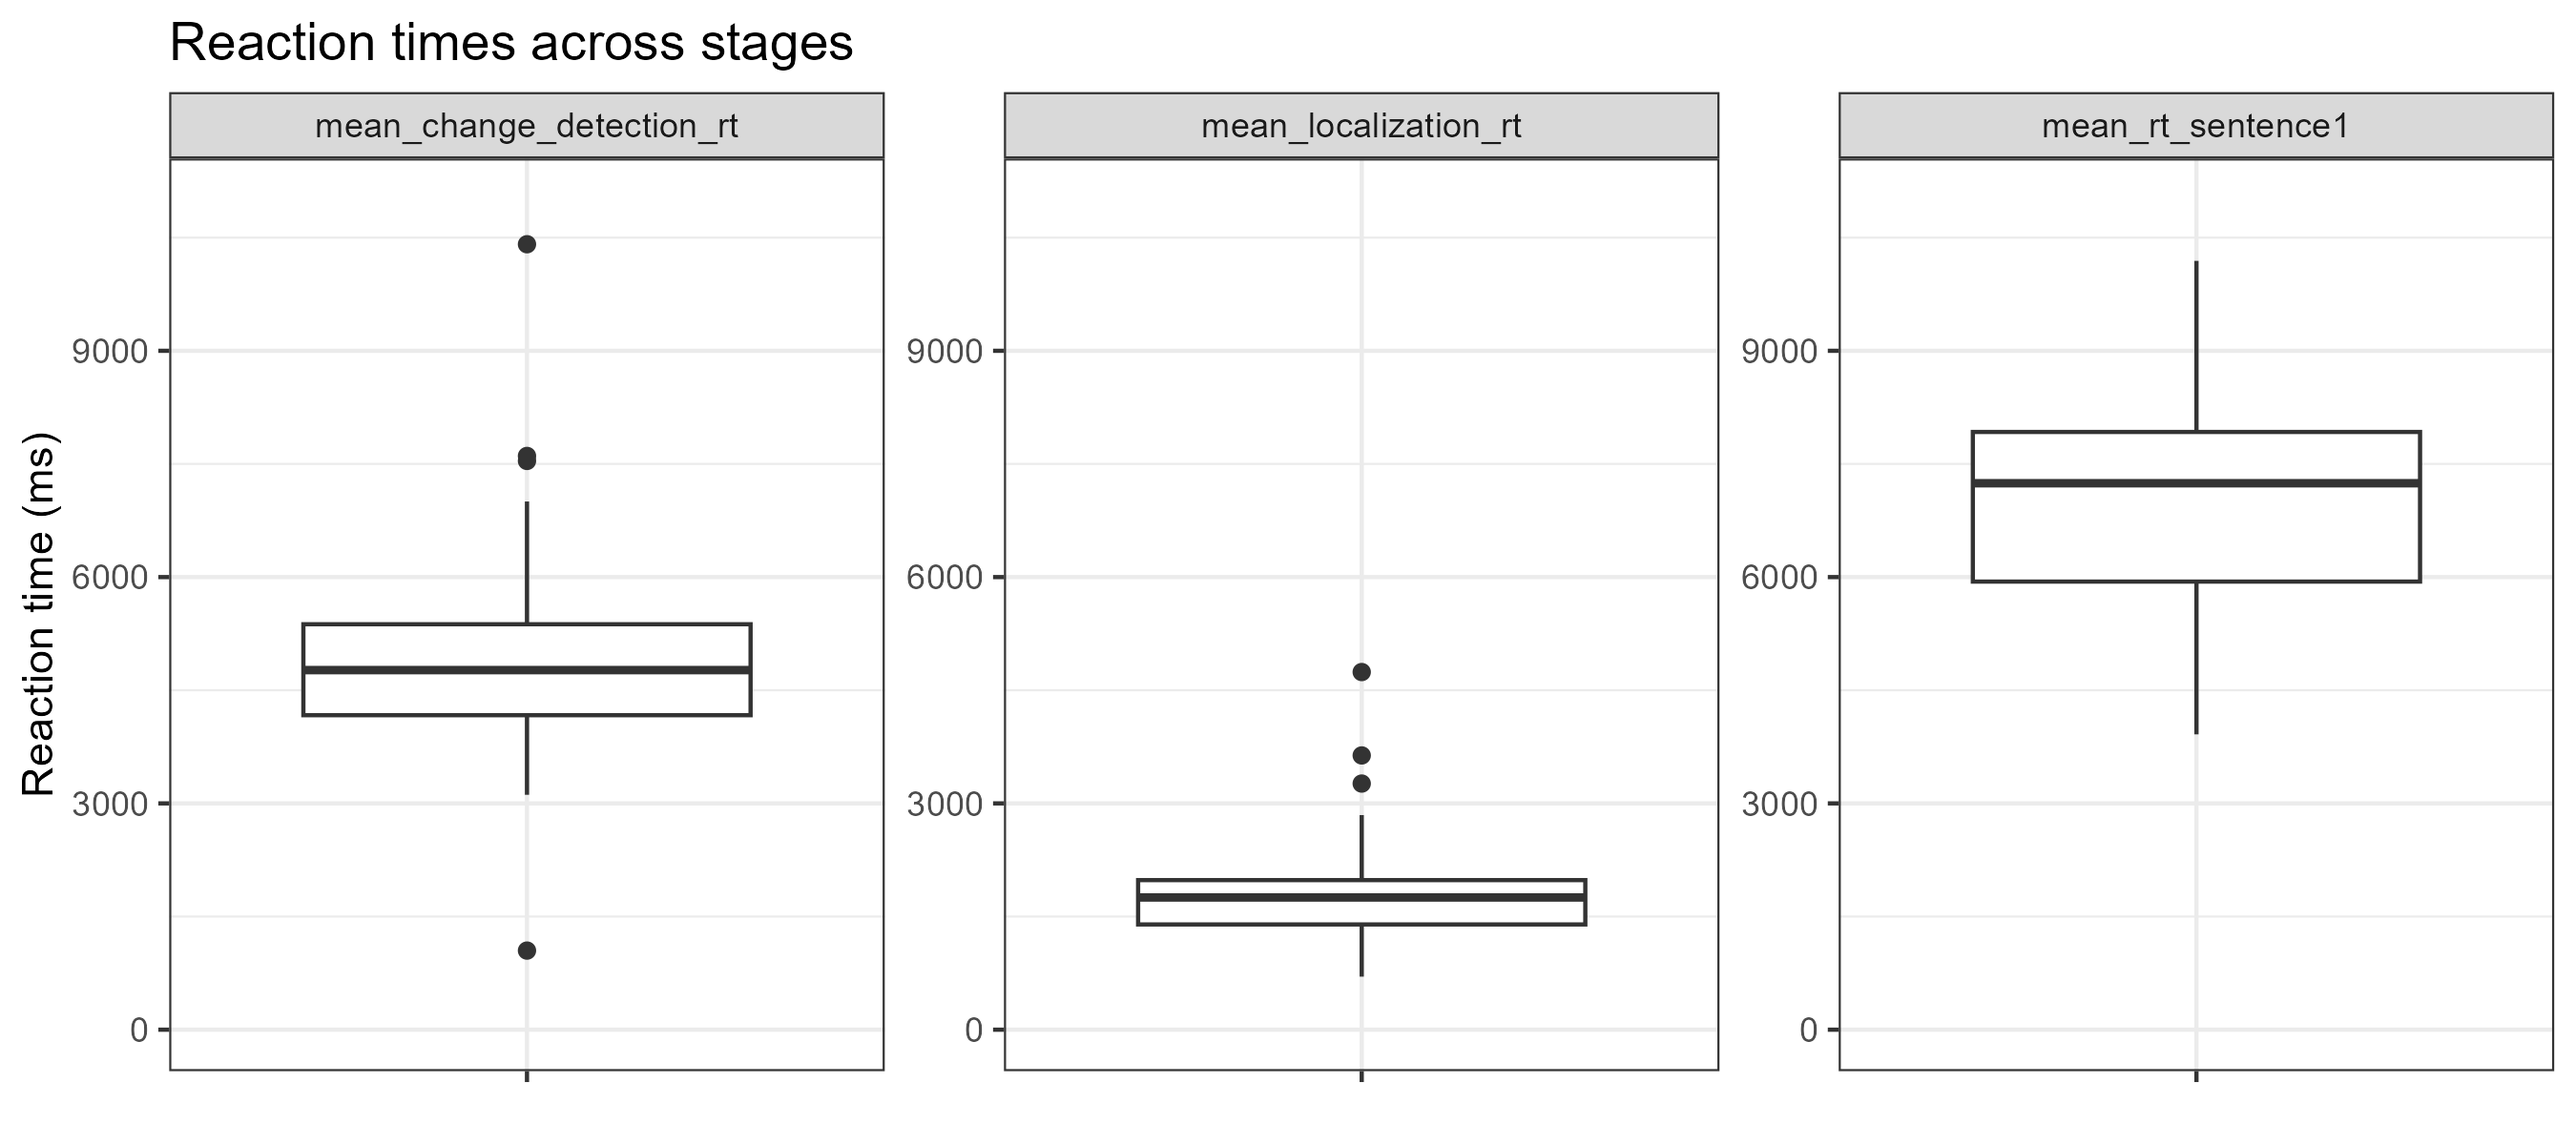
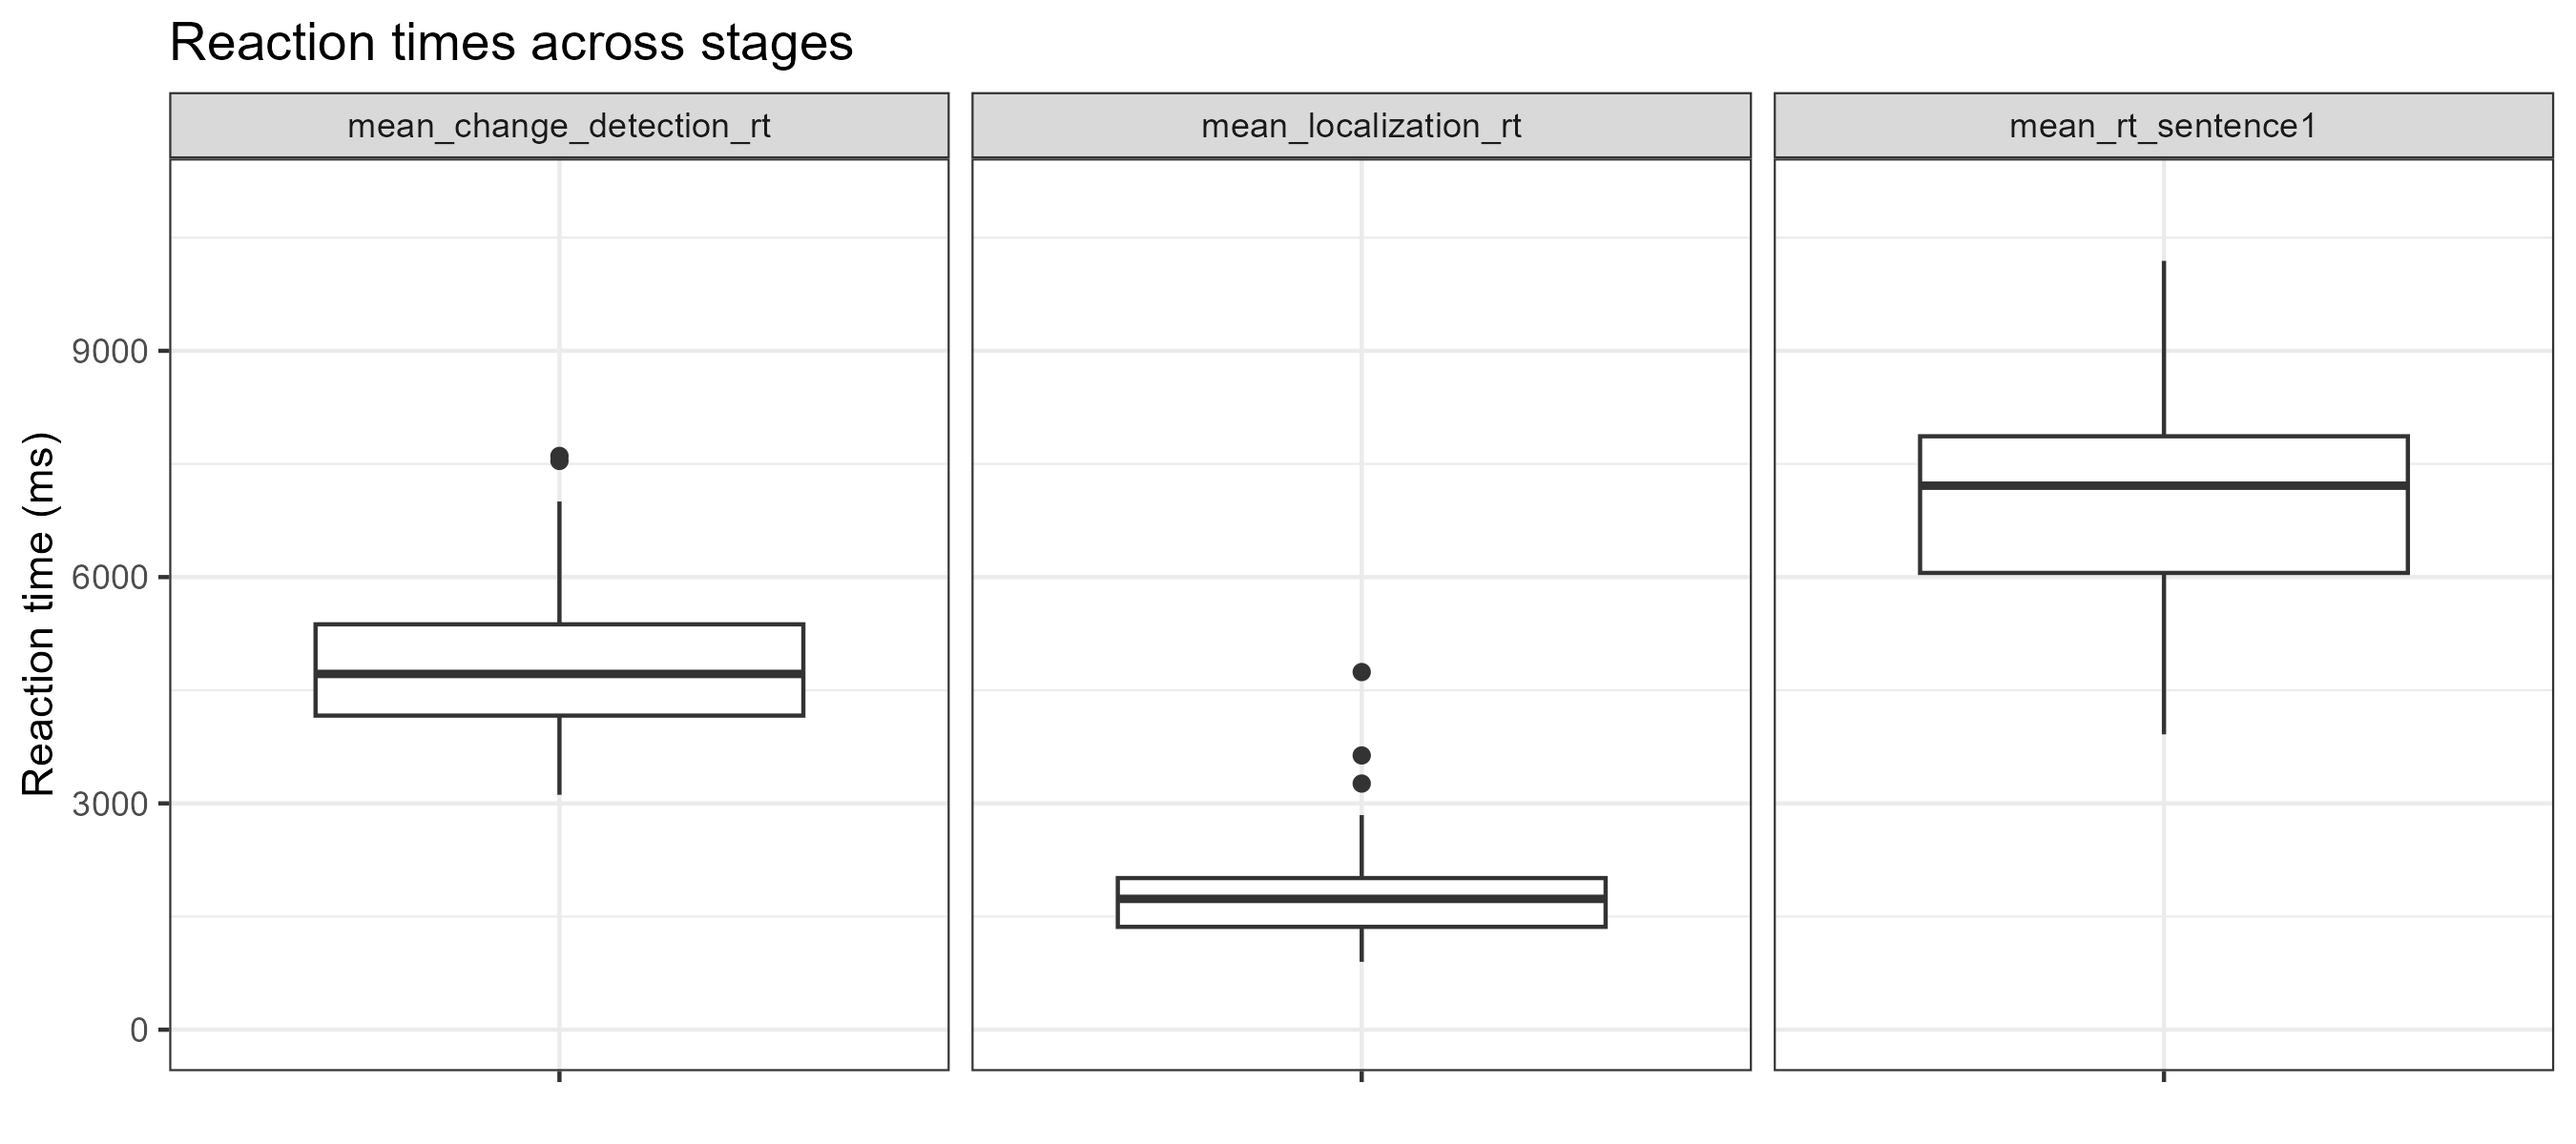
Updating data_processing

diff --git a/data_processing.html b/data_processing.html
@@ -389,7 +389,8 @@ demographics</code></pre>
 <pre class="r"><code># excluding one participant who answered Danish as first language
 # -------------------------------------------------------------
 participant_to_exclude1 &lt;- c(&quot;l4kkhlaf&quot;)
-df_clean &lt;- subset(df_clean, !participant %in% participant_to_exclude1)</code></pre>
+df_clean &lt;- subset(df_clean, !participant %in% participant_to_exclude1)
+data_frame &lt;- subset(data_frame, !participant %in% participant_to_exclude1)</code></pre>
 </div>
 <div id="excluding-participants-who-have-answered-randomly" class="section level2">
 <h2>Excluding participants who have answered randomly</h2>
@@ -416,16 +417,12 @@ dbinom(x=43,size=96,prob=0.5)</code></pre>
 
 # excluding participants that have less than 53 correct
 participants_to_exclude2 &lt;- c(&quot;fkfkavzw&quot;, &quot;4fpy89hk&quot;, &quot;pe6om3uq&quot;)
-df_clean &lt;- subset(df_clean, !participant %in% participants_to_exclude2)</code></pre>
+df_clean &lt;- subset(df_clean, !participant %in% participants_to_exclude2)
+data_frame &lt;- subset(data_frame, !participant %in% participants_to_exclude2)</code></pre>
 </div>
 <div id="excluding-participants-who-spent-too-long-on-the-experiment" class="section level2">
 <h2>Excluding participants who spent too long on the experiment</h2>
-<pre class="r"><code># checking how long the participants spent on the experiment in total
-df_time &lt;- data_frame %&gt;%
-  group_by(participant) %&gt;%
-  summarise(total_time = max(time_elapsed, na.rm = TRUE)/60000)
-
-# and how long they spent on just the change detection part
+<pre class="r"><code># checking how long they spent on the change detection part of the experiment
 df_time_change_detection &lt;- df_clean %&gt;%
   group_by(participant) %&gt;%
   summarise(total_time = max(time_elapsed, na.rm = TRUE)/60000)
@@ -436,16 +433,15 @@ sd_time &lt;- sd(df_time_change_detection$total_time)
 cutoff &lt;- mean_time + 3*sd_time
 
 participants_above_cutoff &lt;- (&quot;knkl4dbx&quot;)
-df_clean &lt;- subset(df_clean, !participant %in% participants_above_cutoff)</code></pre>
+df_clean &lt;- subset(df_clean, !participant %in% participants_above_cutoff)
+data_frame &lt;- subset(data_frame, !participant %in% participants_above_cutoff)</code></pre>
 </div>
 <div id="overview-of-mean-reaction-times" class="section level2">
 <h2>Overview of mean reaction times</h2>
 <p>Here is an overview of the mean reaction times for the three stages
 of the trials (initial sentence reading, change detection,
 localization).</p>
-<pre class="r"><code># EXCLUDE ALL THE PARTICIPANTS TO EXCLUDE BEFORE DOING THIS
-
-reading_time_first_sentence &lt;- data_frame %&gt;%
+<pre class="r"><code>reading_time_first_sentence &lt;- data_frame %&gt;%
   group_by(participant, sentence_id_specific) %&gt;%
   summarise(reading_time_sentence1 = first(rt))</code></pre>
 <pre><code>## `summarise()` has regrouped the output.
@@ -512,11 +508,11 @@ rt_plot &lt;- ggplot(rt_long, aes(x = &quot;&quot;, y = rt)) +
   theme_bw()
 
 rt_plot</code></pre>
-<pre><code>## Warning: Removed 4 rows containing non-finite outside the scale range
+<pre><code>## Warning: Removed 2 rows containing non-finite outside the scale range
 ## (`stat_boxplot()`).</code></pre>
[2 lines of base64/hex data omitted]
 <pre class="r"><code>ggsave(&quot;figures/rt_different_stages.png&quot;, plot = rt_plot, width = 9, height = 4)</code></pre>
-<pre><code>## Warning: Removed 4 rows containing non-finite outside the scale range
+<pre><code>## Warning: Removed 2 rows containing non-finite outside the scale range
 ## (`stat_boxplot()`).</code></pre>
 </div>
 
